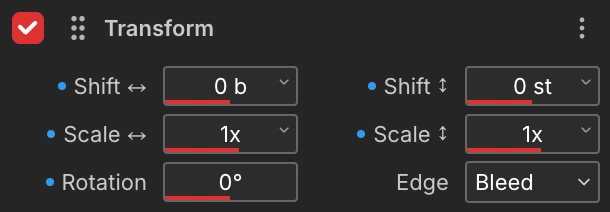
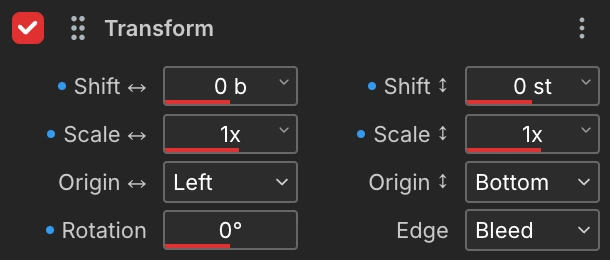
✨ (transform): pivot scale and rotation on a chosen origin
Origin ↔ and Origin ↕ move the pivot from the brush's bottom-left corner
to any of Left/Middle/Right and Bottom/Middle/Top. A negative scale still
mirrors inside the brush at every origin, so Reverse keeps working.

diff --git a/src/renderer/src/lib/__tests__/effects.test.ts b/src/renderer/src/lib/__tests__/effects.test.ts
@@ -14,6 +14,7 @@ import { SpectrogramData, State } from "../../store/types";
 import { createMockSpectrogramData, getPixelAtUv, readSpectrogramPixel } from "../../test/mock-spectrogram";
 import { createMockState, createMockStateWithSteps } from "../../test/mock-state";
 import { EffectsRegistry, SourceFileInfo, StrokeParams, StrokeRenderer, StrokeTextures } from "../stroke-renderer";
+import { BRUSH_SIZE_PITCH_FULL, BRUSH_SIZE_TIME_FULL } from "../utils";
 
 /**
  * Creates WebGL textures from SpectrogramData for testing.
@@ -1050,6 +1051,151 @@ describe("Effects", () => {
       rawTextures.originalPackedDataTex.dispose();
       rawTextures.inverseMapTex.dispose();
       rawTextures.metadataTex.dispose();
+    });
+  });
+
+  // The transform's origin picks the point a scale or a rotation holds still.
+  // A brush covering the whole file, squashed to half its length, must collect
+  // the file's opening burst around that point.
+  describe("transform origin", () => {
+    const numBands = 8;
+    const numFrames = 64;
+    /** Frames the burst occupies at the start of the file, as a fraction. */
+    const burstSpan = 0.25;
+
+    function createBurstSpectrogram(): SpectrogramData {
+      const spec = createMockSpectrogramData({ numFrames, numBands, pattern: "silence" });
+      for (let band = 0; band < numBands; band++) {
+        for (let frame = 0; frame < numFrames * burstSpan; frame++) {
+          const pixelIndex = band * numFrames + frame;
+          spec.packedData[pixelIndex * 4 + 0] = 1;
+          spec.packedData[pixelIndex * 4 + 2] = 1;
+        }
+      }
+      return spec;
+    }
+
+    /** Magnitude-weighted mean frame of the output, as a fraction of the file. */
+    function timeCentroid(output: Float32Array, spec: SpectrogramData): number {
+      let weighted = 0;
+      let total = 0;
+      for (let band = 0; band < spec.numBands; band++) {
+        for (let frame = 0; frame < spec.numFrames; frame++) {
+          const pixel = readSpectrogramPixel(
+            output,
+            frame,
+            band,
+            spec.numFrames,
+            spec.numBands,
+            spec.textureWidth,
+            spec.textureHeight,
+          );
+          if (!pixel) continue;
+          weighted += pixel[0] * frame;
+          total += pixel[0];
+        }
+      }
+      return total > 0 ? weighted / total / spec.numFrames : Number.NaN;
+    }
+
+    async function paintTransform(params: Record<string, unknown>): Promise<number> {
+      const spec = createBurstSpectrogram();
+      const rawTextures = createTexturesFromSpectrogramData(spec);
+      const strokeTextures: StrokeTextures = {
+        originalPackedDataTex: rawTextures.originalPackedDataTex,
+        inverseMapTex: rawTextures.inverseMapTex,
+        metadataTex: rawTextures.metadataTex,
+        placeholderTexture,
+        modulatorScaleLut,
+        modulator1Texture: placeholderTexture,
+        modulator2Texture: placeholderTexture,
+        modulator3Texture: placeholderTexture,
+      };
+      const renderer = new StrokeRenderer(gl, spec, strokeTextures, "origin-test", effects);
+      renderer.initialize();
+
+      const rendererTextures = renderer.getTextures();
+      const sourceFile: SourceFileInfo = {
+        id: "origin-test",
+        filePath: "/test/origin-test.wav",
+        displayName: "origin-test.wav",
+        spectrogramData: spec,
+        textures: {
+          packed: rendererTextures.packed,
+          inverse: rendererTextures.inverse,
+          metadata: rendererTextures.metadata,
+          original: rendererTextures.original,
+        },
+      };
+
+      const state = createMockStateWithSteps(
+        [
+          {
+            name: "Origin",
+            overrides: {
+              brushIntensity: 100,
+              brushSizeTime: BRUSH_SIZE_TIME_FULL,
+              brushSizePitch: BRUSH_SIZE_PITCH_FULL,
+              accumulate: false,
+              blendMode: 0,
+              sourcePositionMode: "follow",
+              effects: [{ id: "test-transform", effect: "transform" as const, enabled: true, params }],
+            },
+          },
+        ],
+        { filepathsBpm: { "/test/origin-test.wav": 120 } },
+      ) as State;
+
+      renderer.renderStroke(
+        {
+          cursorPos: new Vector2(0, 0),
+          preview: false,
+          bpm: 120,
+          totalDuration: spec.numFrames / spec.sampleRate,
+          viewZoomPower: 0,
+          viewOffset: 0,
+          viewZoomPowerY: 0,
+          viewOffsetY: 0,
+          pressure: 1,
+          tiltX: 0,
+          tiltY: 0,
+        },
+        state,
+        sourceFile,
+      );
+      const output = await renderer.getFBOData();
+      const centroid = timeCentroid(output, spec);
+
+      renderer.dispose();
+      rawTextures.packedDataTex.dispose();
+      rawTextures.originalPackedDataTex.dispose();
+      rawTextures.inverseMapTex.dispose();
+      rawTextures.metadataTex.dispose();
+      return centroid;
+    }
+
+    // Squashing to half about origin fraction o leaves the burst centred on
+    // o/2 + burstSpan/4 of the file.
+    it.each([
+      { origin: 0, fraction: 0 },
+      { origin: 1, fraction: 0.5 },
+      { origin: 2, fraction: 1 },
+    ])("origin $origin squashes the burst towards its own point", async ({ origin, fraction }) => {
+      const centroid = await paintTransform({
+        transformScaleTime: 0.5,
+        transformOriginTime: origin,
+        transformEdgeMode: 0,
+      });
+      expect(centroid).toBeCloseTo(fraction / 2 + burstSpan / 4, 1);
+    });
+
+    it.each([0, 1, 2])("a reversed scale still mirrors inside the brush at origin %i", async (origin) => {
+      const centroid = await paintTransform({
+        transformScaleTime: -1,
+        transformOriginTime: origin,
+        transformEdgeMode: 0,
+      });
+      expect(centroid).toBeCloseTo(1 - burstSpan / 2, 1);
     });
   });
 });

diff --git a/src/renderer/src/effects/transform-effect.ts b/src/renderer/src/effects/transform-effect.ts
@@ -7,7 +7,7 @@ import {
   getModAmountValuesNormalized,
   getMacroAmountValuesNormalized,
 } from "@renderer/store/modulators";
-import { GLSL3, RawShaderMaterial } from "three";
+import { GLSL3, RawShaderMaterial, Vector2 } from "three";
 import passThroughVert from "../glsl/pass-through.vert";
 import transformEffectFrag from "../glsl/transform-effect.frag";
 import { withPlatformDefines } from "../lib/shader-utils";
@@ -15,6 +15,11 @@ import { BaseEffect, createDefaultUniforms, destinationLayout, UpdateEffectUnifo
 
 export const boundaryModes = ["smear", "cut", "wrap"] as const;
 export type BoundaryMode = (typeof boundaryModes)[number];
+
+/** Turns an origin option (0 low, 1 middle, 2 high) into its fraction of the brush. */
+function originFraction(option: number): number {
+  return Math.min(2, Math.max(0, option)) * 0.5;
+}
 
 class TransformEffect extends BaseEffect {
   materials: RawShaderMaterial[];
@@ -80,6 +85,7 @@ class TransformEffect extends BaseEffect {
           boundaryMode: {
             value: 0,
           },
+          transformOrigin: { value: new Vector2(0, 0) },
           scaleSnapEnabled: { value: false },
           scaleOffsets: { value: new Float32Array(12) },
           brushBasePitchAbsSemis: { value: 0.0 },
@@ -96,6 +102,8 @@ class TransformEffect extends BaseEffect {
       "transformScalePitch",
       "transformRotation",
       "transformEdgeMode",
+      "transformOriginTime",
+      "transformOriginPitch",
     ];
   }
 
@@ -109,6 +117,8 @@ class TransformEffect extends BaseEffect {
       transformScalePitch,
       transformRotation,
       transformEdgeMode,
+      transformOriginTime,
+      transformOriginPitch,
     } = state;
 
     const { passIndex } = props;
@@ -168,6 +178,10 @@ class TransformEffect extends BaseEffect {
       macroAmounts: getMacroAmountValuesNormalized(state, "transformRotation"),
     };
     material.uniforms.boundaryMode.value = transformEdgeMode;
+    material.uniforms.transformOrigin.value.set(
+      originFraction(transformOriginTime),
+      originFraction(transformOriginPitch),
+    );
 
     // Scale snapping: anchor the snap to the brush's pitch-low edge (= the UV position the
     // pointer snap places on a scale note). brushBottomLeftUv is in pitch-UV convention

diff --git a/src/renderer/src/parameters.ts b/src/renderer/src/parameters.ts
@@ -778,6 +778,34 @@ const baseParameterDefs: Partial<Record<ParameterKey, ParameterDefInput>> = {
     includeInStep: true,
     effectType: "transform",
   },
+  transformOriginTime: {
+    kind: "options",
+    name: "Transform Origin Time",
+    label: "Origin \u2194",
+    description: "Pins the point a stretch or a turn holds still, along time.",
+    default: 0,
+    options: [
+      { value: 0, label: "Left" },
+      { value: 1, label: "Middle" },
+      { value: 2, label: "Right" },
+    ],
+    includeInStep: true,
+    effectType: "transform",
+  },
+  transformOriginPitch: {
+    kind: "options",
+    name: "Transform Origin Pitch",
+    label: "Origin \u2195",
+    description: "Pins the point a stretch or a turn holds still, along pitch.",
+    default: 0,
+    options: [
+      { value: 2, label: "Top" },
+      { value: 1, label: "Middle" },
+      { value: 0, label: "Bottom" },
+    ],
+    includeInStep: true,
+    effectType: "transform",
+  },
   sortDirection: {
     kind: "options",
     name: "Sort Direction",
@@ -1268,8 +1296,8 @@ const baseParameterDefs: Partial<Record<ParameterKey, ParameterDefInput>> = {
     default: 0,
     options: [
       { value: 0, label: "Swap Mag/Phase" },
-      { value: 1, label: "Complex Power" },
-      { value: 2, label: "Phase Rotate" },
+      { value: 1, label: "Phase Multiply" },
+      { value: 2, label: "Disperse" },
       { value: 3, label: "Phase Quantise" },
       { value: 4, label: "Stereo Cross" },
       { value: 5, label: "Phase Gate" },

diff --git a/src/renderer/src/store/effects.ts b/src/renderer/src/store/effects.ts
@@ -16,6 +16,8 @@ export interface EffectsState {
   transformScalePitch: number;
   transformRotation: number;
   transformEdgeMode: number;
+  transformOriginTime: number;
+  transformOriginPitch: number;
   synthesizeBrushType: number;
   blurAmountTime: number;
   blurAmountPitch: number;
@@ -91,6 +93,8 @@ export const createEffectsSlice = (): EffectsState => {
     transformScalePitch: getParameterDef("transformScalePitch").default,
     transformRotation: getParameterDef("transformRotation").default,
     transformEdgeMode: getParameterDef("transformEdgeMode").default,
+    transformOriginTime: getParameterDef("transformOriginTime").default,
+    transformOriginPitch: getParameterDef("transformOriginPitch").default,
 
     // ---------------- Blur ----------------
     blurAmountTime: getParameterDef("blurAmountTime").default,

diff --git a/src/renderer/src/components/effect-views/transform-effect.tsx b/src/renderer/src/components/effect-views/transform-effect.tsx
@@ -12,6 +12,8 @@ export const TransformEffect = memo(function TransformEffect() {
       <ParameterControl paramKey="transformShiftSemis" color={COLOR} />
       <ParameterControl paramKey="transformScaleTime" color={COLOR} />
       <ParameterControl paramKey="transformScalePitch" color={COLOR} />
+      <ParameterControl paramKey="transformOriginTime" color={COLOR} />
+      <ParameterControl paramKey="transformOriginPitch" color={COLOR} />
       <ParameterControl paramKey="transformRotation" color={COLOR} />
       <ParameterControl paramKey="transformEdgeMode" color={COLOR} />
     </SimpleGrid>
